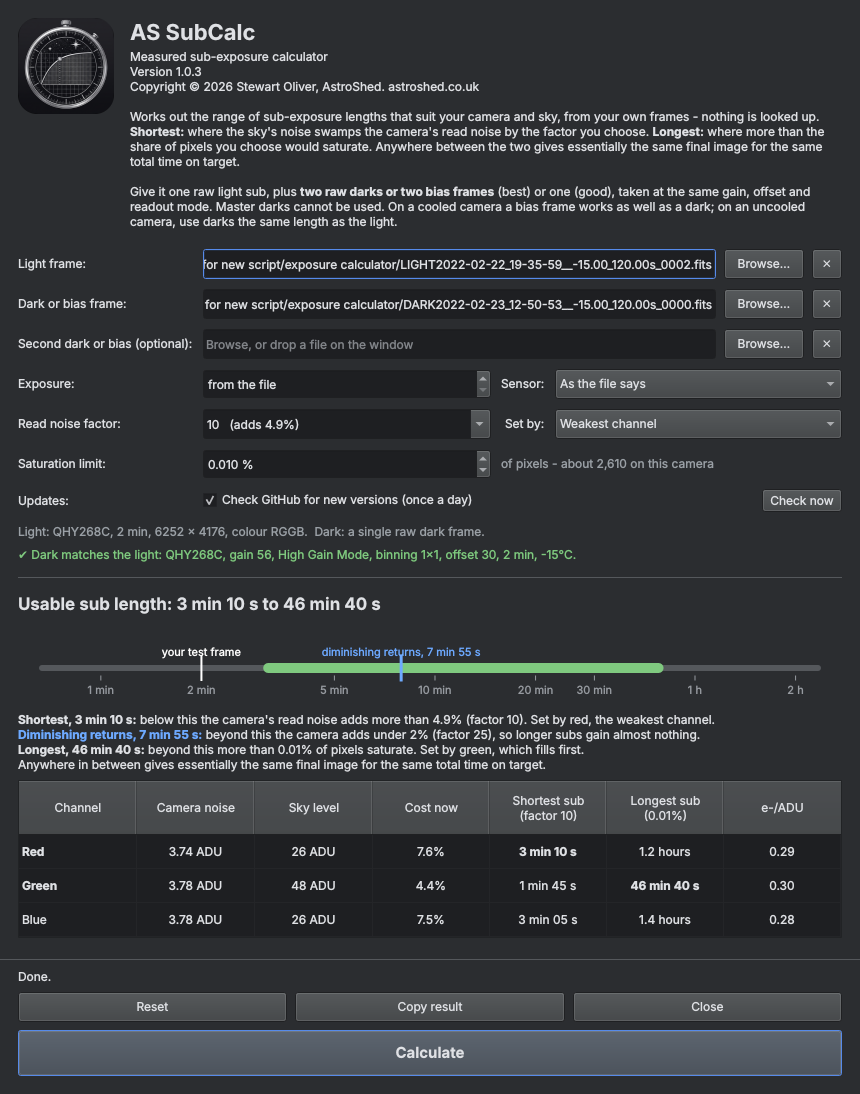
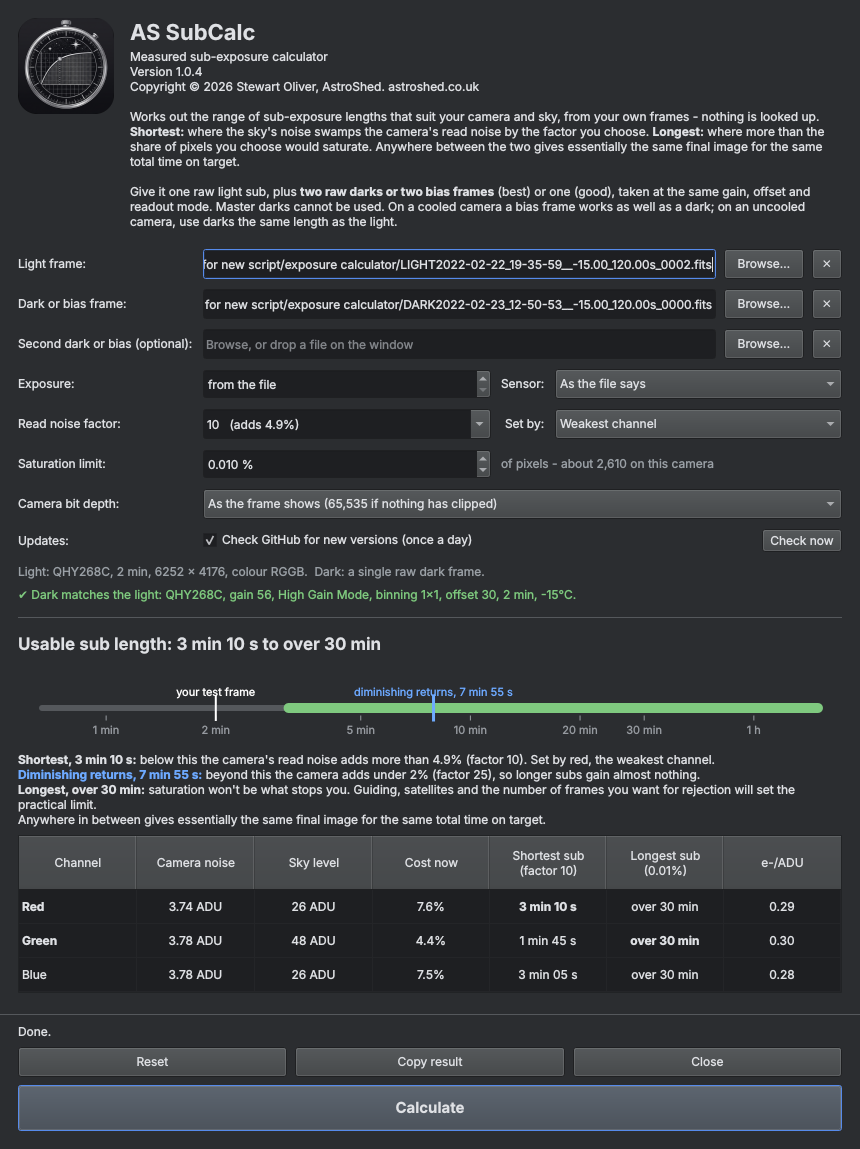
Add files via upload

Changed region(s): [[0.0, 0.0, 0.9977, 0.9945], [0.0302, 0.0, 0.1209, 0.1243]]

diff --git a/README.md b/README.md
@@ -44,6 +44,7 @@ The light can be any sub you have taken of a target with your usual filter. A sh
 
 - **Read noise factor:** how far the sky's noise must swamp the camera's read noise. At factor 10 the camera adds 4.9% to the noise the sky alone would give. Higher means longer subs and a smaller penalty; beyond about 25 there is almost nothing left to gain. Pick from the list or type your own number.
 - **Saturation limit:** the share of pixels that may saturate, mostly the cores of the brightest stars. 0.01% is a few thousand pixels on a typical sensor.
+- **Camera bit depth:** only matters when no pixels in the test frame are saturated, so the camera's ceiling can't be read from it. Nearly all astro cameras give 16-bit values, including 12- and 14-bit sensors whose values are scaled up, which is what the app assumes. Choose an unscaled setting only if your files really top out at 4,095 or 16,383 (some DSLR conversions do).
 - **Set by:** for colour cameras, which channel sets the shortest sub. The weakest channel is the default, so every channel ends up limited by the sky and not by the camera. The longest sub is always set by the channel that fills up first.
 
 Changing the factor or the saturation limit updates the results straight away. Both are remembered.
@@ -52,6 +53,7 @@ Changing the factor or the saturation limit updates the results straight away. B
 
 - **Usable sub length:** the range between the two bookends, shown on a time scale with a mark where your test frame sits.
 - **Diminishing returns:** the blue mark on the range bar. Beyond it the camera adds under 2% (factor 25), so longer subs gain almost nothing. If saturation stops you before that point, the app says so instead.
+- **Over 30 min:** a longest sub beyond 30 minutes is not given as a figure. Saturation won't be what stops you; guiding, satellites and the number of frames you want will set the practical limit.
 - **Camera noise:** the camera's own noise, measured from the dark.
 - **Sky level:** how far the sky background sits above the dark in the test frame.
 - **Cost now:** the extra noise the camera adds at the test frame's length. A small figure means the sub was already long enough.

diff --git a/CHANGELOG.md b/CHANGELOG.md
@@ -1,5 +1,13 @@
 # AS SubCalc: version history
 
+## v1.0.4
+
+- **Fixed:** on a test frame with no saturated pixels and nothing brighter than about 4,180, the app took a 16-bit camera for a 12-bit one, and the longest sub came out about 16 times too short. It now assumes 65,535, right for nearly all astro cameras.
+- **Camera bit depth** setting, for cameras that save unscaled 12-bit or 14-bit values. Only used when nothing in the test frame has clipped.
+- A note says when the camera's ceiling had to be assumed, because nothing in the test frame had clipped.
+- A longest sub beyond 30 minutes is shown as **over 30 min**: at that point saturation is not what stops you, and guiding, satellites and frame count set the practical limit.
+- A few bright pixels that happen to share the same value are no longer mistaken for the camera's ceiling.
+
 ## v1.0.3
 
 - **Point of diminishing returns** (factor 25, where the camera adds only 2%) marked on the range bar in blue and given in the text. If saturation stops you before that point, the app says so instead.
